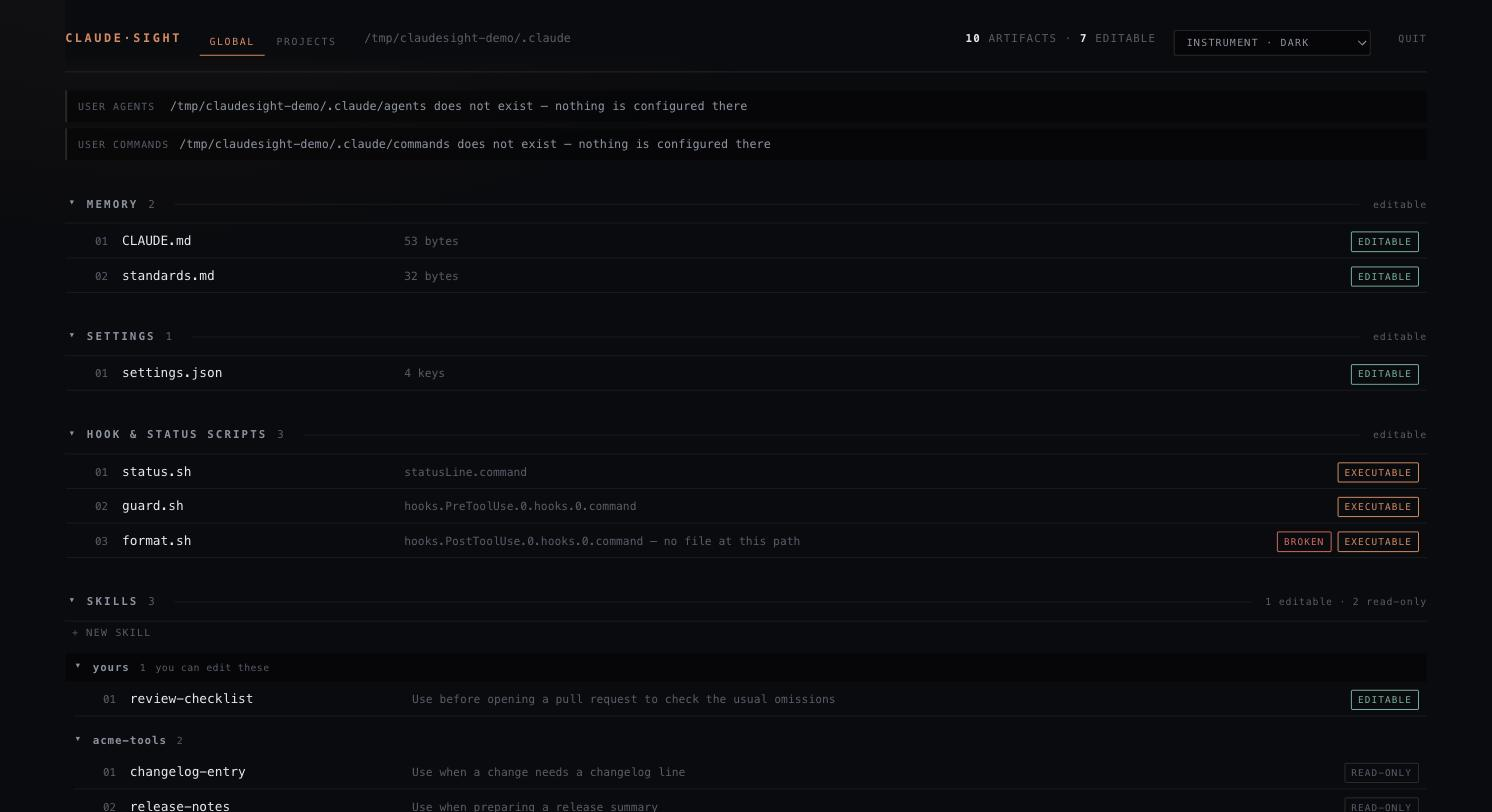
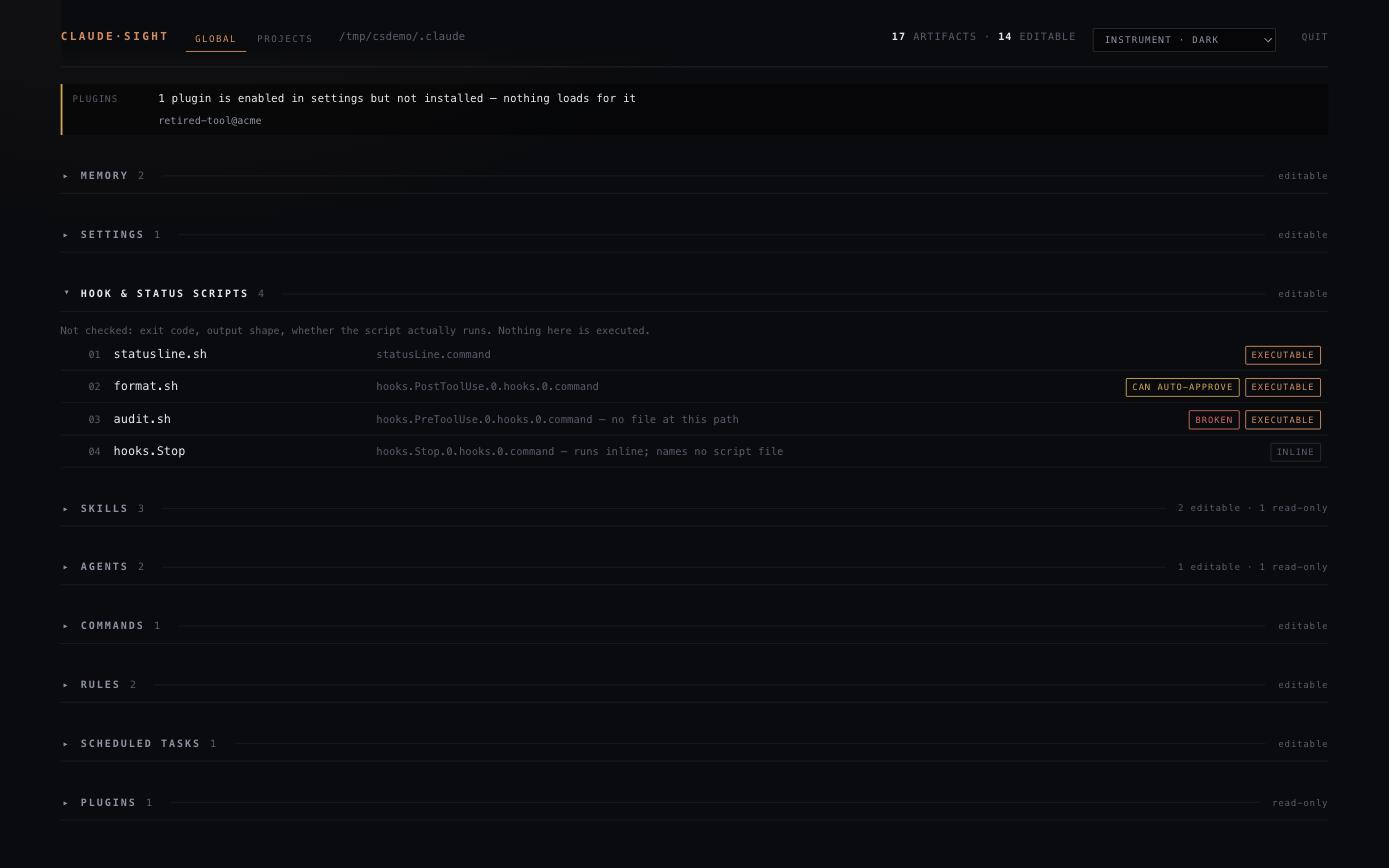
docs: describe what the app actually does now
The README had gone stale across three releases. It listed neither rules nor
scheduled tasks, said nothing about inherited configuration, and did not
mention that anything could be created — it was written when only skills
could be, and that stopped being true in 0.6.0.

Added: an "Adding artifacts" section covering the four creatable kinds and,
more usefully, the three that deliberately are not — commands because the
docs deprecate them, hook scripts because writing a file that runs as shell
is the riskiest act here, scheduled tasks because the schedule is Desktop's
state and the file alone would not make one. Ancestor loading, with both
boundaries. Gone projects being hidden rather than cleaned up. The
declared-vs-used answers: an MCP server's command with three outcomes rather
than two, a plugin enabled but not installed, a setting a policy overrides.

SECURITY.md now says the confirmation gate reads markdown frontmatter, not
only JSON — understating what the app protects you from is its own kind of
inaccuracy.

Screenshots regenerated from a fabricated configuration, which is now a
script rather than something assembled by hand: scripts/demo-config.mjs
builds a fixture chosen to exercise what the UI has to say, and refuses a
directory that is not empty.

The new guards in docs-consistency check claims that drift silently. The
first version of them was vacuous — matching the whole README, where "a
[…]

diff --git a/tests/docs-consistency.test.js b/tests/docs-consistency.test.js
@@ -115,3 +115,67 @@ describe('the docs describe this project, accurately', () => {
     expect(readme).not.toMatch(/#\s*\d+ tests/)
   })
 })
+
+// Claims that drift silently when behaviour changes. Each one was true when
+// written and would have quietly become false: the README said only skills
+// could be created for three releases after that stopped being so.
+describe('claims the docs make about behaviour', () => {
+  const security = fs.readFileSync('SECURITY.md', 'utf8')
+
+  // Scoped to the section that makes the claim. Matching the whole README
+  // was vacuous: "a skill" and "CLAUDE.md" appear all over it, so the test
+  // passed with the sentence deleted. Caught by reverting the claim and
+  // watching it stay green.
+  const section = (heading) => {
+    const start = readme.indexOf(`## ${heading}`)
+    if (start === -1) return ''
+    const next = readme.indexOf('\n## ', start + 1)
+    return readme.slice(start, next === -1 ? undefined : next)
+  }
+
+  it('names every kind that can actually be created, and no others', async () => {
+    const { CREATABLE } = await import('../src/server/create.js')
+    const adding = section('Adding artifacts')
+    expect(adding, 'README needs an "Adding artifacts" section').not.toBe('')
+    const named = {
+      memory: /`CLAUDE\.md`/.test(adding),
+      rule: /\ba rule\b/.test(adding),
+      skill: /\ba skill\b/.test(adding),
+      agent: /\ba subagent\b/.test(adding),
+    }
+    for (const kind of CREATABLE) {
+      expect(named[kind], `the "Adding artifacts" section should name ${kind}`).toBe(true)
+    }
+    expect(adding, 'must not offer to create commands').not.toMatch(/create a command\b/i)
+  })
+
+  it('still says commands are deprecated, which is why they are not creatable', () => {
+    expect(readme).toMatch(/commands.{0,80}deprecated|deprecated.{0,80}commands/is)
+  })
+
+  it('quotes the port the server actually defaults to', async () => {
+    const { DEFAULT_PORT } = await import('../src/server/index.js')
+    expect(readme, `README should quote port ${DEFAULT_PORT}`).toContain(String(DEFAULT_PORT))
+  })
+
+  it('lists the runtime dependencies this package actually has', () => {
+    for (const dep of Object.keys(pkg.dependencies)) {
+      expect(security, `SECURITY.md should name the runtime dependency ${dep}`)
+        .toContain(`\`${dep}\``)
+    }
+  })
+
+  it('does not still say the confirmation gate is only for JSON', () => {
+    // The gate reads markdown frontmatter too; saying otherwise understates
+    // what the app protects you from.
+    expect(security).toMatch(/frontmatter/i)
+  })
+
+  it('points only at files that exist', () => {
+    const referenced = [...readme.matchAll(/\(([A-Za-z0-9_./-]+\.(?:md|jpg|png))\)/g)].map((m) => m[1])
+    for (const rel of referenced) {
+      if (rel.startsWith('http')) continue
+      expect(fs.existsSync(rel), `README points at ${rel}, which does not exist`).toBe(true)
+    }
+  })
+})

diff --git a/README.md b/README.md
@@ -29,14 +29,19 @@ Or from a clone, which is what you want if you intend to change anything:
     npm install        # also builds the UI
     npm start
 
-![The global view: artifacts grouped by kind and banded by owner, with a hook whose script is missing flagged as broken](docs/img/global.jpg)
+![The global view: artifacts grouped by kind, with a hook whose script is missing flagged as broken, an inline hook that names no script, a hook that can auto-approve, and a notice naming a plugin that is enabled but not installed](docs/img/global.jpg)
 
 ## What it shows
 
 **Global** — your memory files with `@`-imports resolved, `settings.json`, the hook and
-statusline scripts those settings execute, skills, agents, commands, and installed
+statusline scripts those settings execute, skills, agents, commands, rules, and installed
 plugins with drift status. Most of these arrive from plugins rather than from your own
 directories, which is why tools that only read `~/.claude/skills` report nothing.
+
+Also the prompt behind each Claude Desktop scheduled task, from
+`~/.claude/scheduled-tasks/`. Only the prompt is in that file — the schedule, folder and
+model are Desktop's own state — so every row says so rather than implying the app knows
+when the task runs.
 
 **Projects** — every directory Claude Code has actually run in, found by reading the
 project registry, your prompt history and session transcripts. No filesystem scan. Each
@@ -44,10 +49,37 @@ project shows its own memory, settings, MCP servers, skills, agents, commands, r
 the hook scripts its settings execute. A repo that publishes a plugin is read in that
 layout too, since its artifacts live at the repo root rather than under `.claude/`.
 
+**Configuration inherited from parent directories is listed too**, because Claude Code
+loads it. The two boundaries differ and both are taken from the documented behaviour:
+`.claude/skills`, `agents` and `commands` are read up to the repository root, closest
+name winning; `CLAUDE.md` and `CLAUDE.local.md` are read from every parent above that as
+well. An inherited row names the directory it came from — the one you would actually
+edit — and a definition that beat others to its name says how many it shadows.
+
+A project whose directory no longer exists is hidden behind a count you can open. It is
+never cleaned up: `gone` means "not there right now", which is also what an unmounted
+volume and a removed worktree look like.
+
 Items are grouped by kind and banded by owner, because ownership is what decides whether
 you can change a thing. Everything starts folded; what you expand is remembered.
 
-![The projects view: discovered projects on the left, the selected project's artifacts on the right](docs/img/projects.jpg)
+![The projects view: discovered projects on the left, the selected package on the right — a CLAUDE.md inherited from the repository root, and an MCP server whose command is not on PATH flagged as broken](docs/img/projects.jpg)
+
+## Adding artifacts
+
+Four kinds can be created, at either scope: `CLAUDE.md`, a rule, a skill, and a subagent.
+Each asks for only what it needs — a rule for a name, a skill and a subagent for a
+description as well, `CLAUDE.md` for nothing, since its filename is fixed. What is written
+is the minimum valid file and nothing more: no `permissionMode`, no `hooks`, and no
+`paths:` filter on a rule, which would quietly scope it to files you never named. The
+scaffold is saved as the file's first version, so you can always get back to it.
+
+Commands are deliberately **not** creatable, although the app lists the ones you have.
+Claude Code's documentation marks `.claude/commands/*.md` deprecated in favour of skills,
+and a creator that steers you onto a deprecated mechanism is worse than no creator.
+Hook scripts are not creatable either — writing a file that runs as shell is the riskiest
+act in this family. A scheduled task's prompt can be edited but a task cannot be created:
+its schedule and folder live in Claude Desktop, so the file alone would not make one.
 
 ## What it refuses to do
 
@@ -67,6 +99,13 @@ still fires it. A `settings.json` or `.mcp.json` that will not parse keeps its r
 reports the parse position, or says the parser did not give one rather than guessing. A
 directory that could not be read is named, not counted. A plugin whose installed version
 differs from its manifest says which is which.
+
+The same goes for configuration that points at something absent. Every MCP server in a
+`.mcp.json` gets its own row saying whether its command could be found — with three
+answers, not two: found, searched-for-and-absent, and *unknown* where no answer is
+possible, such as a server addressed by URL. A plugin switched on in `settings.json` but
+not installed is named, since nothing loads for it. A setting a managed policy overrides
+says so, because yours will never take effect.
 
 ## Editing
 
@@ -95,7 +134,9 @@ size limit — it says so and why, and is never reported as "no change".
   driving this API; see §9.2 of the spec for why there is no secret in the URL.
 - No outbound requests. No telemetry, no account, no cloud, no LLM calls.
 - Writing a file that Claude Code executes as shell requires a second confirmation
-  naming the exact command, bound by HMAC to that file and that content.
+  naming the exact command, bound by HMAC to that file and that content. That covers
+  markdown as well as JSON: a subagent's frontmatter can declare `hooks`, or turn the
+  approval prompt off, and those take the same confirmation.
 - Every write is backed up beside the original at mode `0600`, under a lockfile, with a
   compare-and-swap against the on-disk content.
 
@@ -108,7 +149,8 @@ size limit — it says so and why, and is never reported as "no change".
 
 Node 20 or later, on macOS.
 
-> Screenshots use a fabricated configuration, not a real one.
+> Screenshots use a fabricated configuration, not a real one. Regenerate it with
+> `node scripts/demo-config.mjs <empty-dir>`, which prints the command to serve it.
 
 [![CI](https://github.com/8ballbb/claudesight/actions/workflows/ci.yml/badge.svg)](https://github.com/8ballbb/claudesight/actions/workflows/ci.yml)
 

diff --git a/SECURITY.md b/SECURITY.md
@@ -10,8 +10,10 @@ project — but a report will be read and answered.
 ## What this app can do, which is the reason to care
 
 claudesight reads your Claude Code configuration and **writes files that Claude Code
-later executes as shell** — hook commands and status-line scripts. A flaw that lets
-something else drive this API is a local code-execution flaw, and is treated as one.
+later executes as shell** — hook commands, status-line scripts, and subagent definitions
+whose frontmatter can declare hooks of their own or switch the approval prompt off. A
+flaw that lets something else drive this API is a local code-execution flaw, and is
+treated as one.
 
 It binds `127.0.0.1` only. It makes no outbound requests: no telemetry, no account, no
 cloud, no LLM calls. Nothing you open here leaves the machine.
@@ -36,6 +38,13 @@ making the launch link one-shot. See §9.2 of the design doc.
 **Writing something executable takes a second confirmation.** The confirmation token is
 HMAC-bound to both the target and the content, so approving one command cannot be used to
 install another. The dialog names the exact command and shows the file's full diff.
+
+This is not limited to JSON. A markdown file's YAML frontmatter is scanned for the same
+capabilities — `hooks:`, and a `permissionMode` that stops Claude Code asking — because
+a subagent definition can carry them, and for a long time the gate only looked at
+`.json`. `tools: Bash` is deliberately not gated: omitting `tools` inherits everything
+including Bash, so warning about the explicit spelling while ignoring the permissive
+default would warn about the safer of the two.
 
 **Writes are defensive.** A lockfile, a compare-and-swap against the on-disk content, and
 a `0600` backup beside the original. Deletion moves to the Trash and is refused outright

diff --git a/CONTRIBUTING.md b/CONTRIBUTING.md
@@ -47,6 +47,18 @@ If you add Linux or Windows: start from the `folder` mechanism in `src/server/tr
 relax the guard in `bin/claudesight.js`, **and add CI that runs the suite on that platform
 in the same change.** A platform without CI is a claim nobody has checked.
 
+## Screenshots
+
+The two images in the README come from a fabricated configuration, never from a real
+machine. `scripts/demo-config.mjs <empty-dir>` builds it and prints the command to serve
+it; it refuses a directory that is not empty, and refuses anything under a `.claude`
+path. The fixture is chosen to exercise what the UI has to say — a hook whose script is
+missing, an inline hook, a hook that can auto-approve, a plugin whose manifest disagrees
+with the installed version, a plugin enabled but never installed, a monorepo package
+that inherits from its repository root, an MCP server that is not on PATH, and a
+remembered directory that is gone. If you change what a row says, regenerate both
+images.
+
 ## CI
 
 `.github/workflows/ci.yml` runs on every push and pull request: lint, the suite on Node 20
